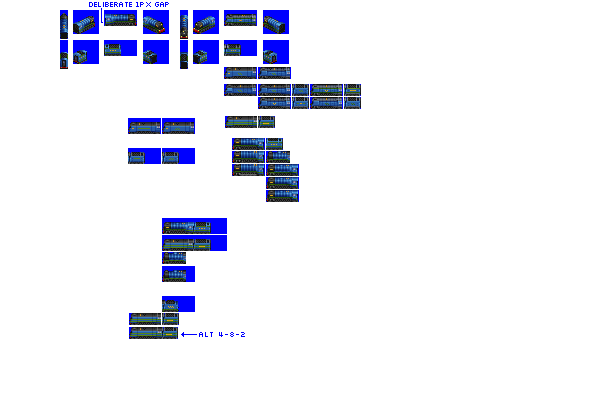
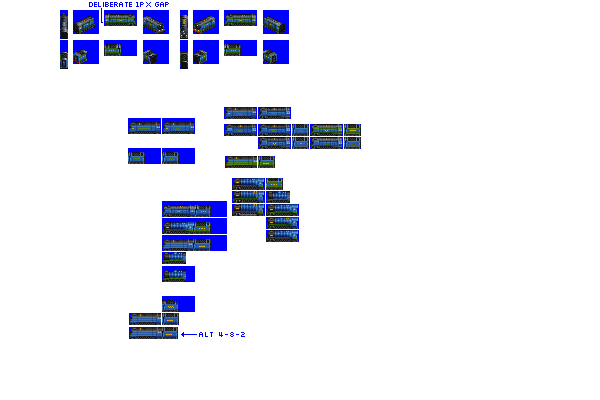
Change: Hawkinge sprites and stats complete

diff --git a/src/vehicles/hawkinge.py b/src/vehicles/hawkinge.py
@@ -12,7 +12,8 @@ def main(roster_id):
         power=2350,
         tractive_effort_coefficient=0.25,
         gen=3,
-        sprites_complete=False,
+        intro_date_offset=5,  # introduce later than gen epoch by design
+        sprites_complete=True,
     )
 
     consist.add_unit(
@@ -27,7 +28,7 @@ def main(roster_id):
         type=SteamEngineTenderUnit, weight=32, vehicle_length=4, spriterow_num=1
     )
 
-    consist.description = """."""
+    consist.description = """Mr. Bulleid designed these. Do you like 'em?"""
     consist.foamer_facts = (
         """SR Merchant Navy / West Country / Battle of Britain classes"""
     )
